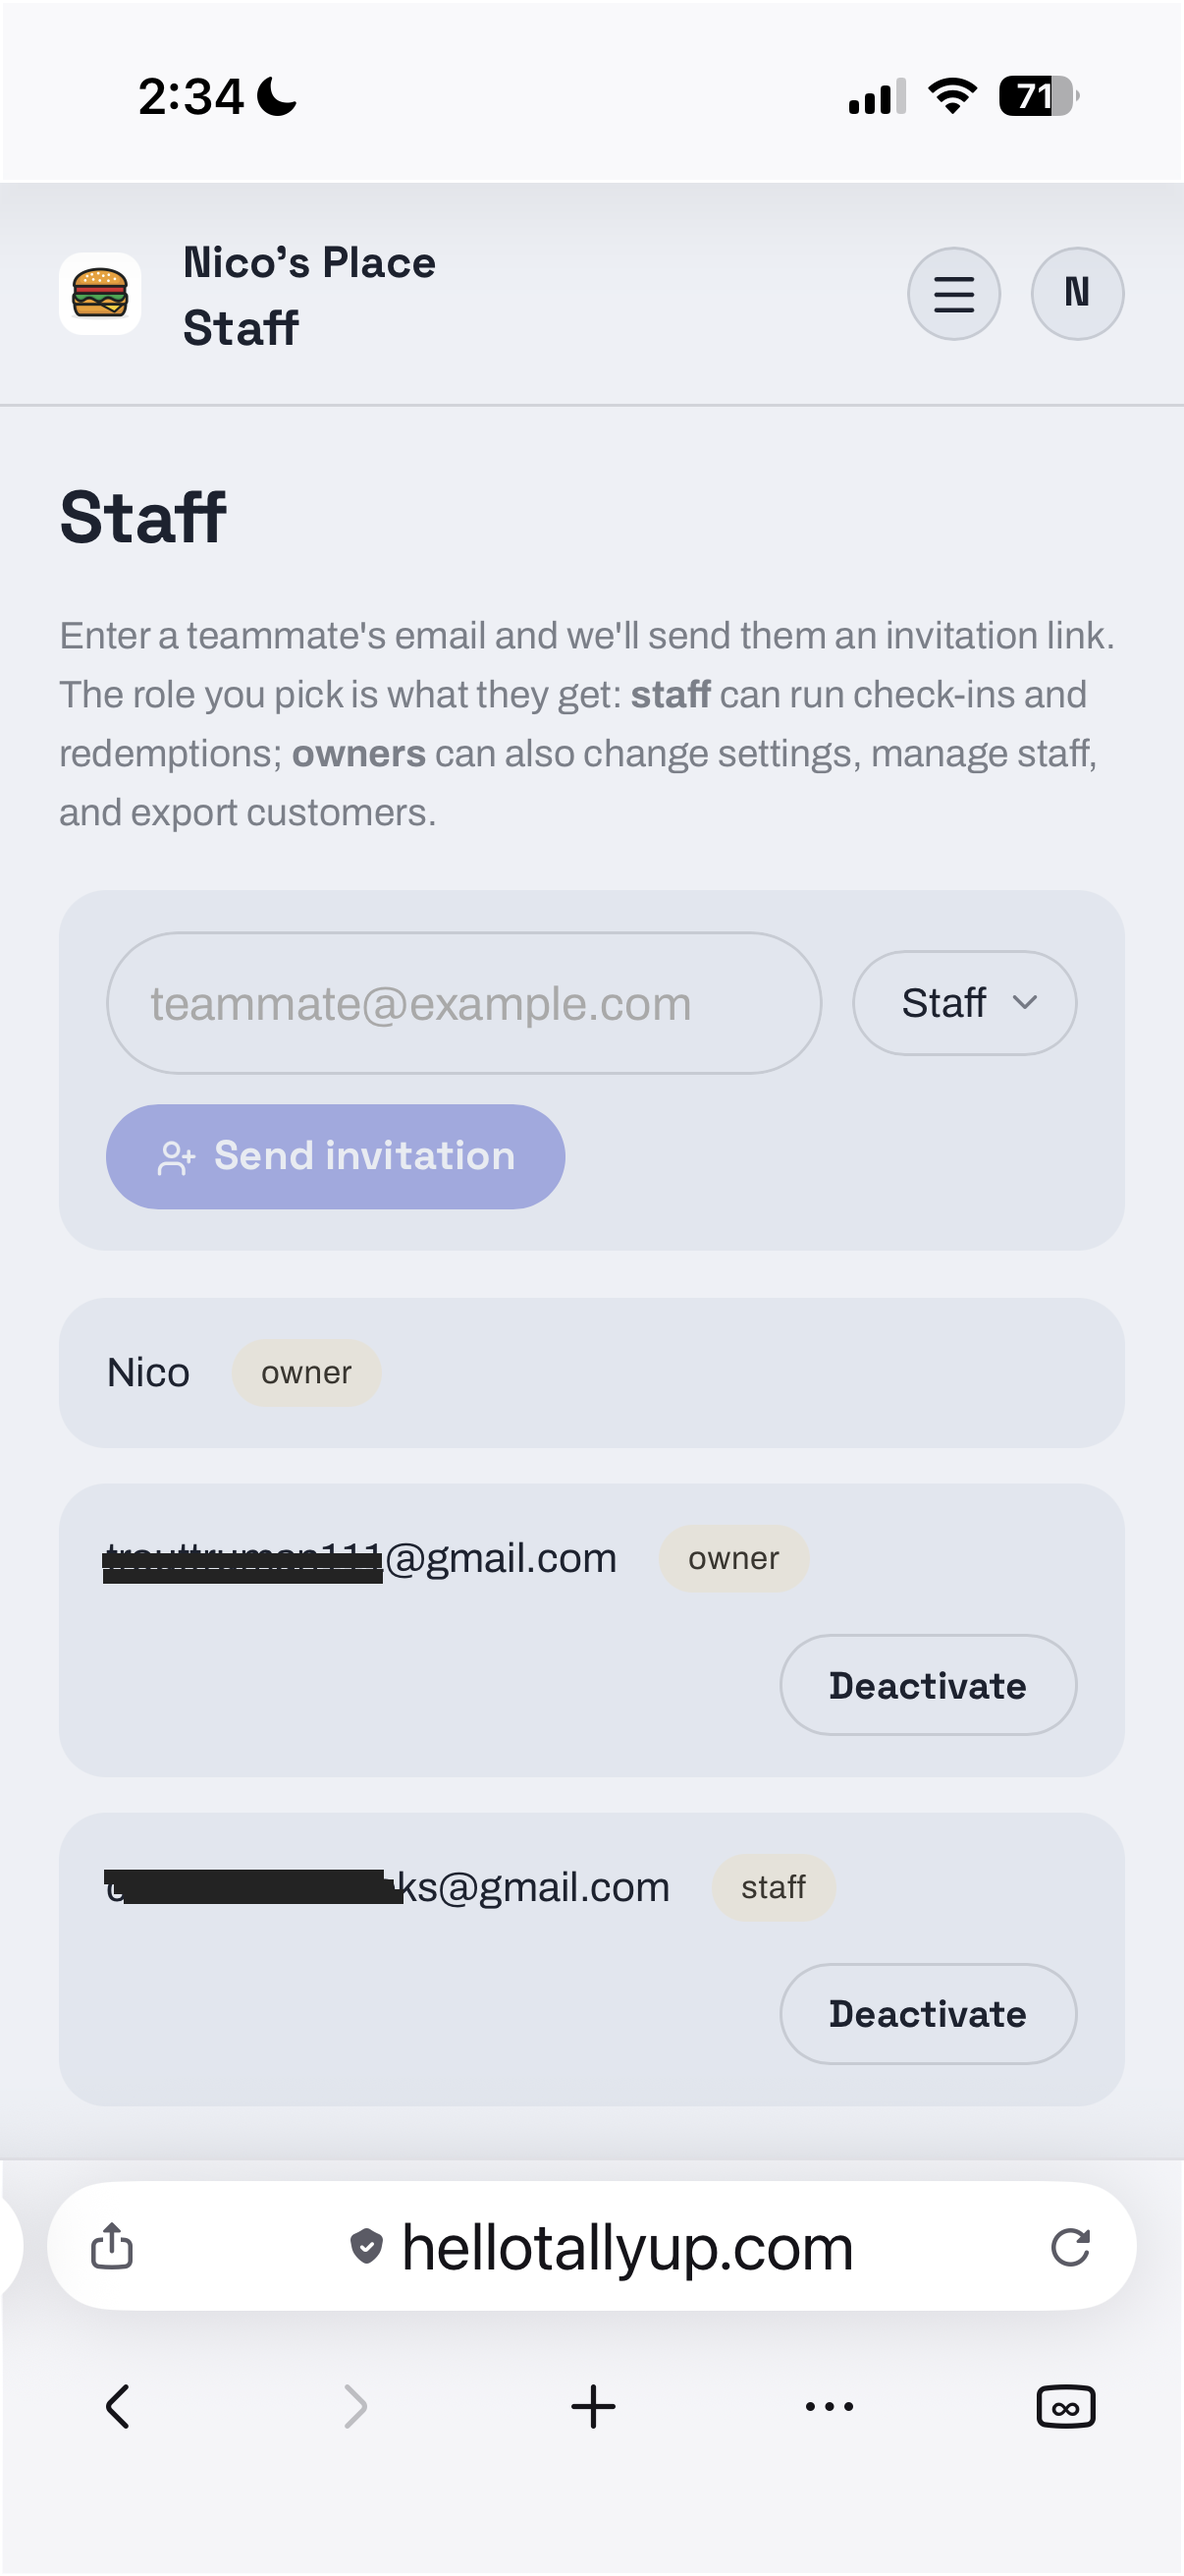
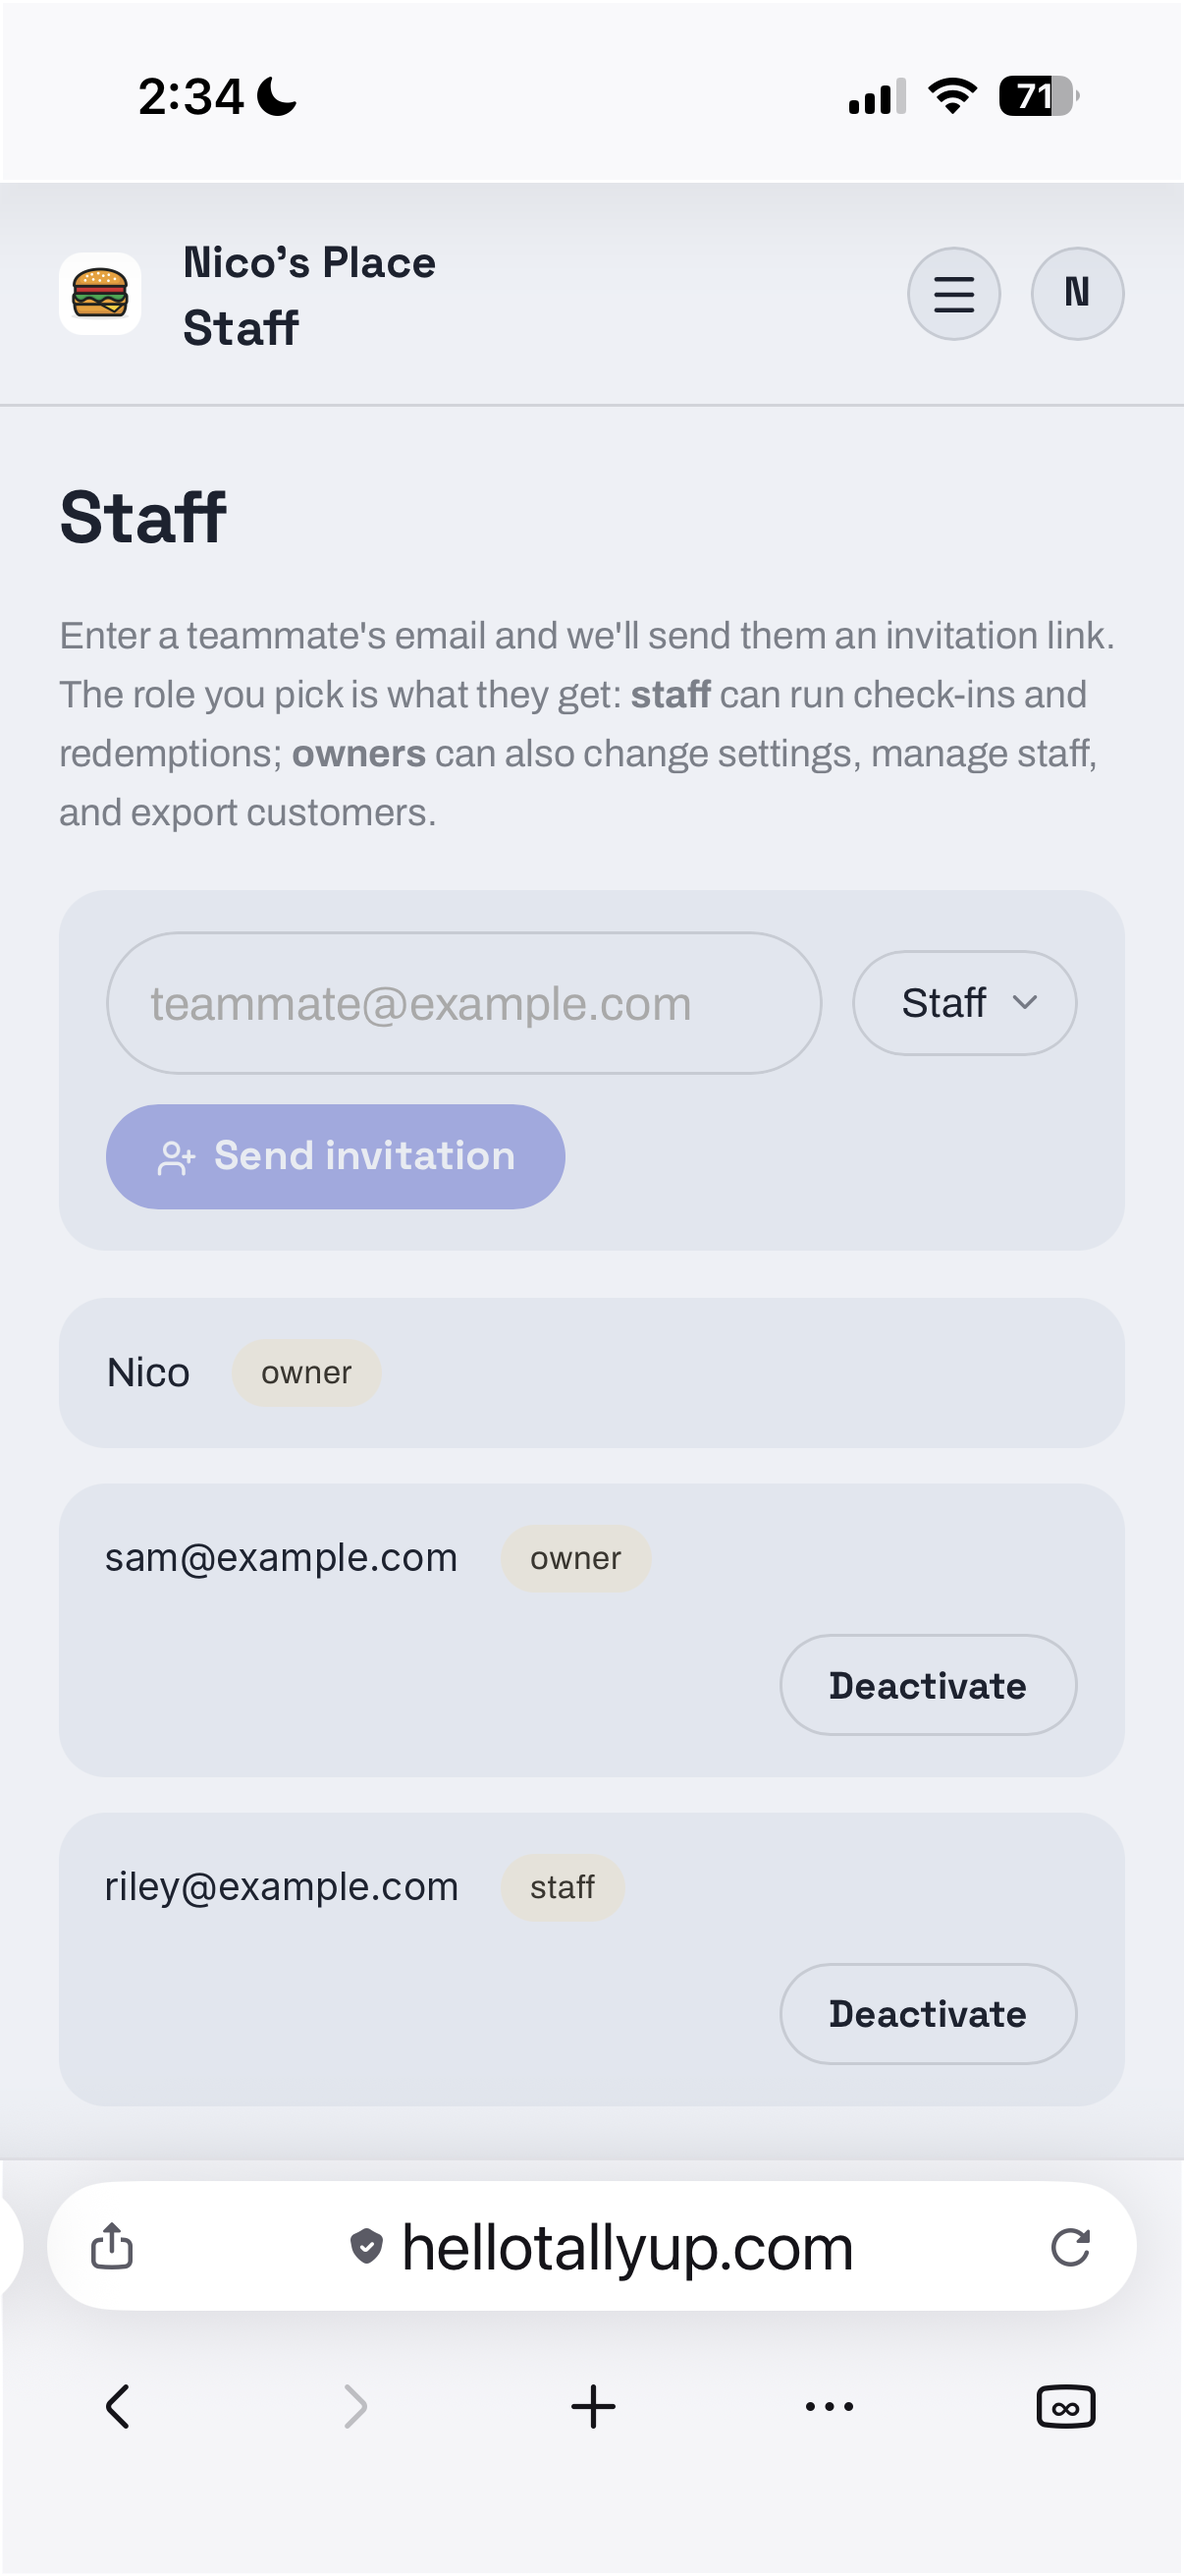
Replace the emails in the TallyUp mobile staff screenshot and show it on the landing page
The two teammate emails were only partly struck out, so they are now
painted over and replaced with sam@example.com and riley@example.com.
The phone shot sits over the desktop staff screenshot in the For teams
section.

Claude-Session: https://claude.ai/code/session_01Li6xt5tYoT7uJiTxXkrVE8

diff --git a/tallyup/index.html b/tallyup/index.html
@@ -102,6 +102,9 @@ nav .inner { display: grid; grid-template-columns: 1fr auto 1fr; align-items: ce
 .split-text a { color: var(--accent); font-weight: 600; text-decoration: none; }
 .split-text a:hover { text-decoration: underline; }
 .split-img { width: 100%; border-radius: 12px; border: 1px solid var(--img-border); box-shadow: 0 14px 40px -18px rgba(28,34,48,0.28); display: block; }
+.split-combo { position: relative; padding: 0 0 56px 0; }
+.split-combo .split-img { width: 86%; }
+.split-combo .phone-frame { position: absolute; right: 0; bottom: 0; width: 160px; margin: 0; }
 
 .dual { padding: 64px 0; text-align: center; }
 .dual-row { display: flex; justify-content: center; gap: 32px; flex-wrap: wrap; align-items: flex-start; margin-top: 8px; }
@@ -150,6 +153,8 @@ footer { padding: 40px 0; border-top: 1px solid var(--border); text-align: cente
   .trust-grid { grid-template-columns: 1fr; }
   nav .inner { grid-template-columns: auto auto; justify-content: space-between; }
   .nav-cta { display: none; }
+  .split-combo .split-img { width: 88%; }
+  .split-combo .phone-frame { width: 120px; border-width: 5px; border-radius: 20px; }
 }
 
 /* Studios logo stays under half the header width on phones. */
@@ -343,7 +348,10 @@ footer { padding: 40px 0; border-top: 1px solid var(--border); text-align: cente
       <p>Invite a teammate by email and choose their role right there. Staff can run check-ins and redemptions; owners can also change settings, manage staff, and export customers.</p>
       <p>Promote, demote, or deactivate anytime. Nothing to install on their end either.</p>
     </div>
-    <img src="tally-up-desktop-staff.png" alt="TallyUp staff page with an email invite form and a list of team members and their roles" class="split-img">
+    <div class="split-combo">
+      <img src="tally-up-desktop-staff.png" alt="TallyUp staff page with an email invite form and a list of team members and their roles" class="split-img">
+      <div class="phone-frame"><img src="tally-up-mobile-staff.png" alt="The same staff page on a phone, with the invite form and team members listed as cards"></div>
+    </div>
   </div>
 </div>
 </section>
